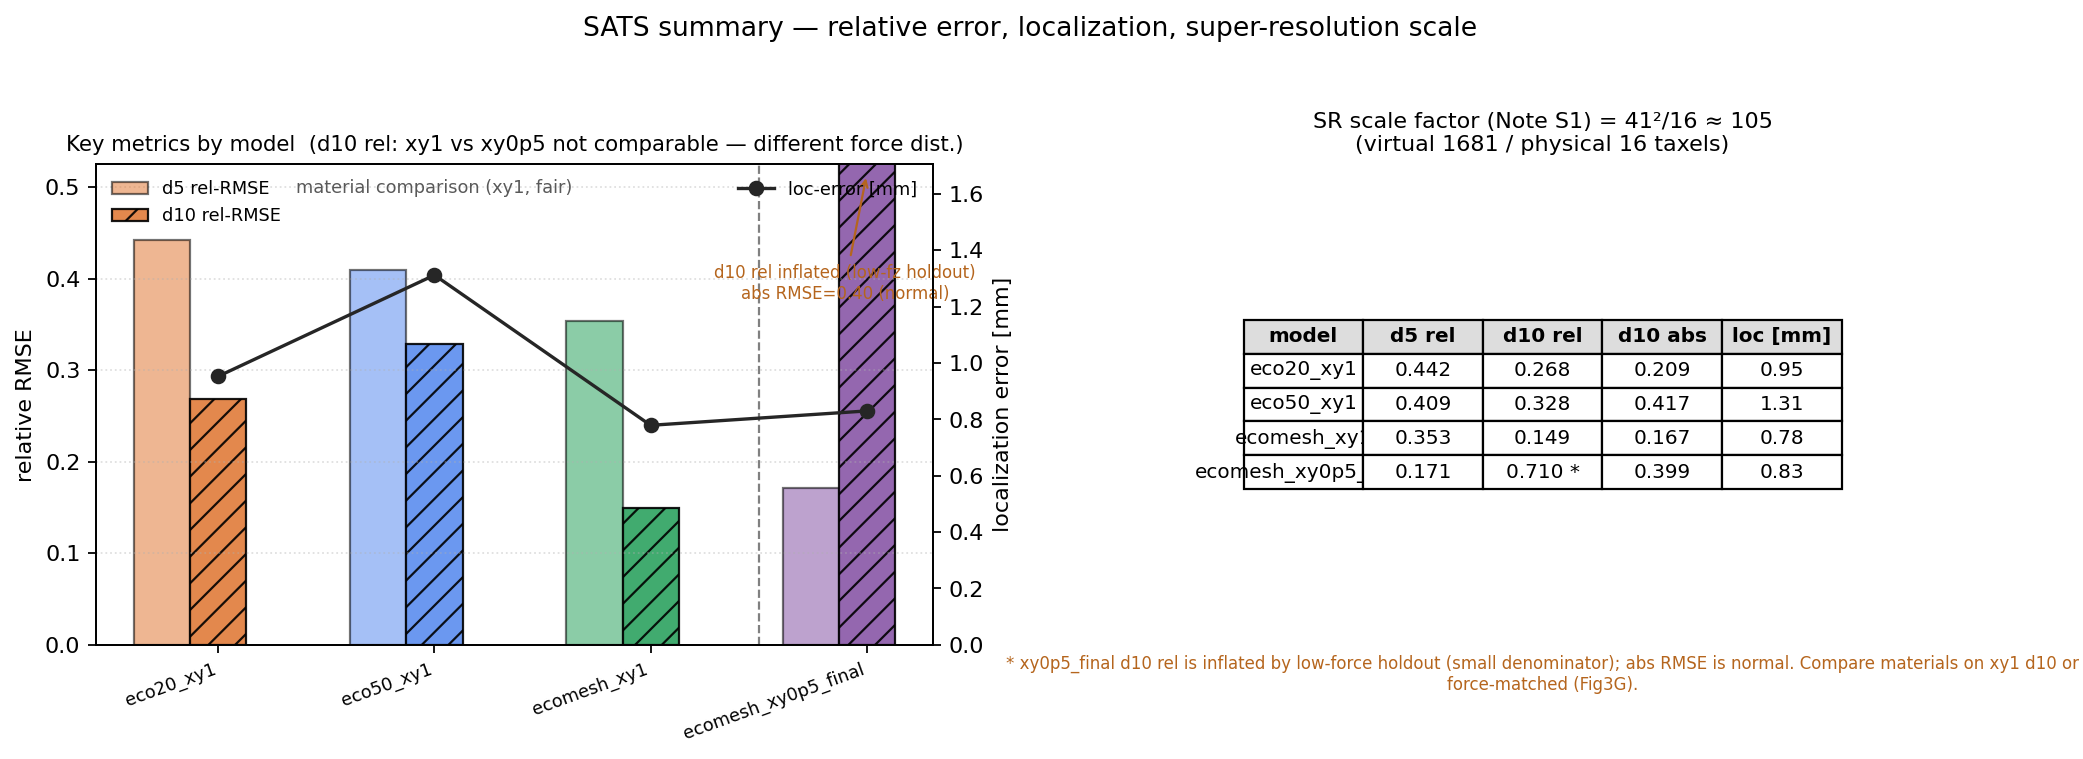
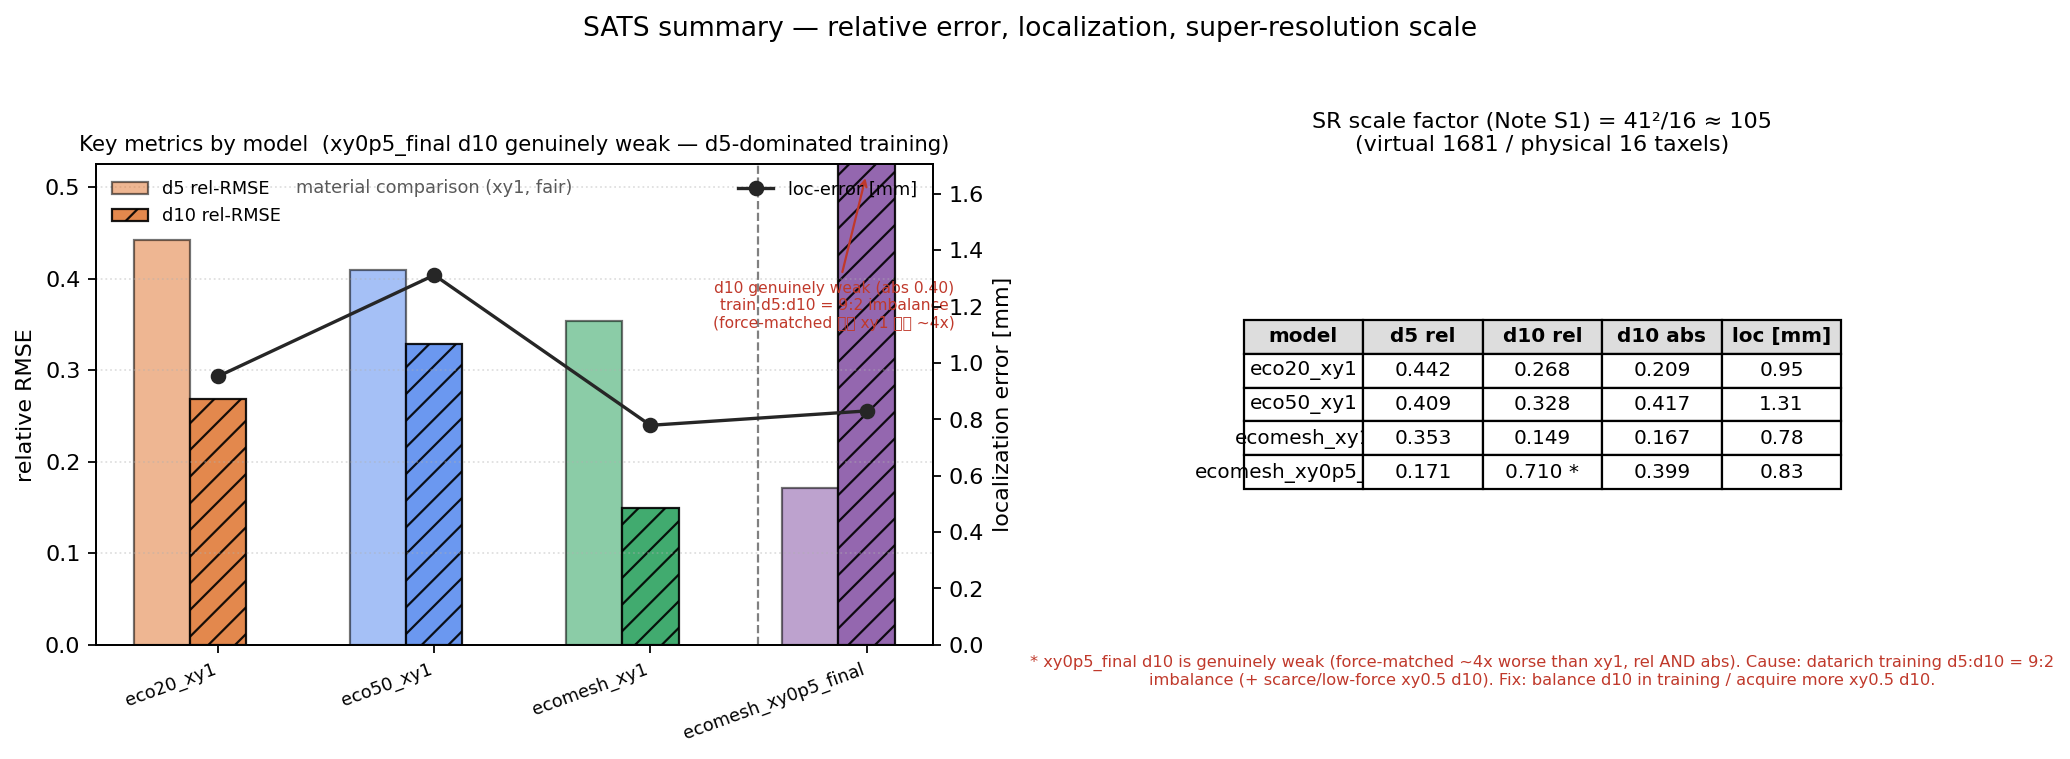
fix: summary_metrics d10 설명 정정 — xy0p5_final d10은 진짜 약함(아티팩트 아님)
force-matched 검증: xy0.5 final d10이 xy1 대비 상대·절대 모두 ~4배 나쁨(같은 force에서도).
이전 '저force 분모 아티팩트, abs 정상' 설명은 오류 → 정정.
원인: datarich 학습 d5:d10=9:2 불균형 + xy0.5 d10 희소/저force. 주석·각주·제목 정직하게 수정.

Claude-Session: https://claude.ai/code/session_01ErRvCMiqdnquEF42VMr6QG

diff --git a/history/fig_data/visualizing_scripts/figure_set/generate_supp_summary.py b/history/fig_data/visualizing_scripts/figure_set/generate_supp_summary.py
@@ -80,21 +80,22 @@ def main() -> None:
     axb.axvline(n_xy1 - 0.5, color="0.5", ls="--", lw=1)
     axb.text((n_xy1 - 1) / 2, ymax * 0.97, "material comparison (xy1, fair)",
              ha="center", va="top", fontsize=8, color="0.35")
-    # final d10: 저force 홀드아웃이라 rel 부풀려짐 → 절대 rmse·경고 주석
+    # final d10: 진짜로 나쁨(force-matched 로도 xy1 대비 3~4배) — 원인은 d5-편중 학습.
     for xi, r in zip(x, rows):
         if r["is_final"]:
-            axb.annotate(f"d10 rel inflated (low-fz holdout)\nabs RMSE={r['d10_abs']:.2f} (normal)",
+            axb.annotate(f"d10 genuinely weak (abs {r['d10_abs']:.2f})\n"
+                         "train d5:d10 = 9:2 imbalance\n(force-matched 로도 xy1 대비 ~4x)",
                          xy=(xi, min(r["d10_rel"], ymax * 0.98)),
-                         xytext=(xi - 0.1, ymax * 0.72), ha="center", fontsize=7.5,
-                         color="#b5651d",
-                         arrowprops=dict(arrowstyle="->", color="#b5651d", lw=1))
+                         xytext=(xi - 0.15, ymax * 0.66), ha="center", fontsize=7,
+                         color="#c0392b",
+                         arrowprops=dict(arrowstyle="->", color="#c0392b", lw=1))
     axb2 = axb.twinx()
     axb2.plot(x, [r["loc_mm"] for r in rows], "o-", c="0.15", label="loc-error [mm]")
     axb2.set_ylabel("localization error [mm]")
     axb2.set_ylim(0, max(r["loc_mm"] for r in rows) * 1.3)
     axb.set_xticks(x); axb.set_xticklabels(labels, rotation=20, ha="right", fontsize=8)
     axb.set_ylabel("relative RMSE")
-    axb.set_title("Key metrics by model  (d10 rel: xy1 vs xy0p5 not comparable — different force dist.)",
+    axb.set_title("Key metrics by model  (xy0p5_final d10 genuinely weak — d5-dominated training)",
                   fontsize=9.5)
     axb.legend(loc="upper left", fontsize=8, frameon=False)
     axb2.legend(loc="upper right", fontsize=8, frameon=False)
@@ -113,9 +114,10 @@ def main() -> None:
         t[0, c].set_facecolor("#dddddd"); t[0, c].set_text_props(weight="bold")
     axt.set_title(f"SR scale factor (Note S1) = {GRID_SIZE}²/{N_PHYSICAL} ≈ {SR_SCALE:.0f}\n"
                   f"(virtual {GRID_SIZE*GRID_SIZE} / physical {N_PHYSICAL} taxels)", fontsize=10)
-    axt.text(0.5, -0.02, "* xy0p5_final d10 rel is inflated by low-force holdout (small denominator); "
-             "abs RMSE is normal. Compare materials on xy1 d10 or force-matched (Fig3G).",
-             transform=axt.transAxes, ha="center", va="top", fontsize=7.5, color="#b5651d", wrap=True)
+    axt.text(0.5, -0.02, "* xy0p5_final d10 is genuinely weak (force-matched ~4x worse than xy1, rel AND abs). "
+             "Cause: datarich training d5:d10 = 9:2 imbalance (+ scarce/low-force xy0.5 d10). "
+             "Fix: balance d10 in training / acquire more xy0.5 d10.",
+             transform=axt.transAxes, ha="center", va="top", fontsize=7.3, color="#c0392b", wrap=True)
 
     fig.suptitle("SATS summary — relative error, localization, super-resolution scale", y=1.02)
     fig.tight_layout()